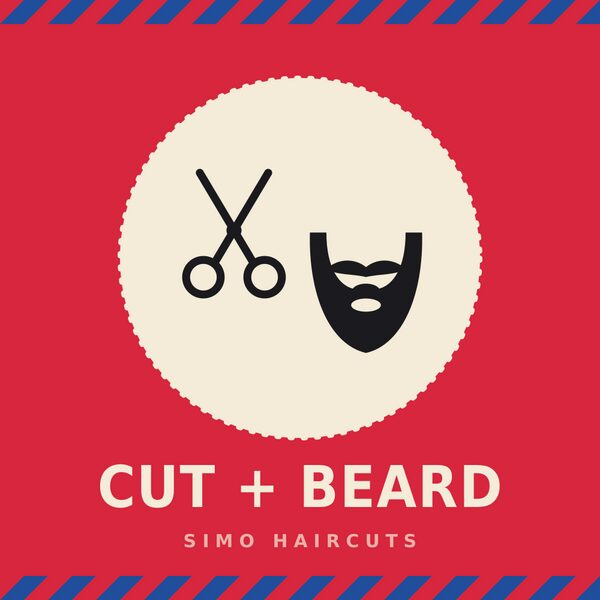
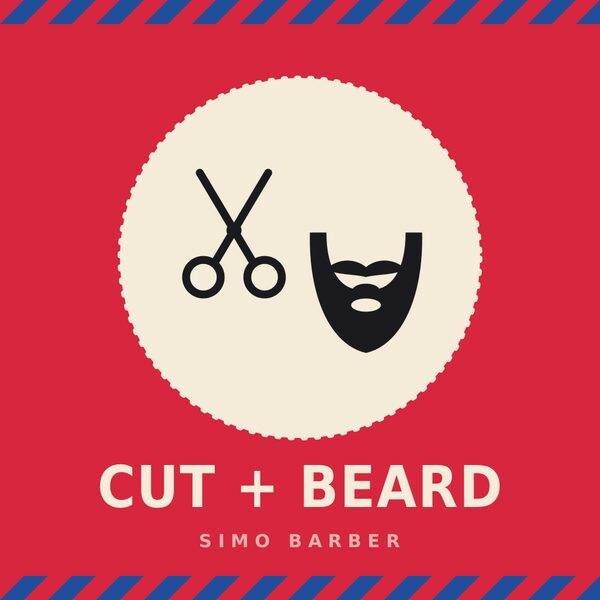
Rename to Simo Barber; lead services with haircuts
Claude-Session: https://claude.ai/code/session_01NQSfjRKTrDdcBnhyAtxXei

Changed region(s): [[0.3, 0.87, 0.69, 0.93]]

diff --git a/index.html b/index.html
@@ -3,11 +3,11 @@
 <head>
 <meta charset="utf-8">
 <meta name="viewport" content="width=device-width, initial-scale=1">
-<title>Simo Haircuts · North York Barber</title>
+<title>Simo Barber · North York</title>
 <meta name="description" content="Haircuts, fades, beards and hot towel shaves by Simo. Book your next cut online in 30 seconds.">
-<meta property="og:title" content="Simo Haircuts">
-<meta property="og:description" content="Fades, beards and hot towel shaves in North York. Book online in 30 seconds.">
-<meta property="og:image" content="https://simobarber.ca/img/og.jpg?v=3">
+<meta property="og:title" content="Simo Barber">
+<meta property="og:description" content="Haircuts, fades, beards and hot towel shaves in North York. Book online in 30 seconds.">
+<meta property="og:image" content="https://simobarber.ca/img/og.jpg?v=4">
 <meta property="og:image:width" content="1200">
 <meta property="og:image:height" content="630">
 <meta property="og:url" content="https://simobarber.ca/">
@@ -138,7 +138,7 @@
   <div class="wrap">
     <a class="logo" href="#top">
       <svg viewBox="0 0 100 100" aria-hidden="true"><polygon fill="#E0A93B" points="90,50 79.2,59.3 78.3,78.3 59.3,79.2 50,90 40.7,79.2 21.7,78.3 20.8,59.3 10,50 20.8,40.7 21.7,21.7 40.7,20.8 50,10 59.3,20.8 78.3,21.7 79.2,40.7"/><circle cx="50" cy="50" r="12" fill="#13233F"/></svg>
-      SIMO HAIRCUTS
+      SIMO BARBER
     </a>
     <a class="btn small book" href="#">Book now</a>
   </div>
@@ -217,7 +217,7 @@
   </section>
 </main>
 
-<footer>© <span id="yr"></span> Simo Haircuts · 1027 Finch Ave W, North York · 416-652-3697</footer>
+<footer>© <span id="yr"></span> Simo Barber · 1027 Finch Ave W, North York · 416-652-3697</footer>
 <a class="btn stickybook book" href="#">Book now →</a>
 
 <script>

diff --git a/book/index.html b/book/index.html
@@ -4,9 +4,9 @@
 <meta charset="utf-8">
 <meta name="viewport" content="width=device-width, initial-scale=1">
 <title>Book with Simo</title>
-<meta property="og:title" content="Book with Simo · Simo Haircuts">
+<meta property="og:title" content="Book with Simo · Simo Barber">
 <meta property="og:description" content="Pick your next time in 30 seconds.">
-<meta property="og:image" content="https://simobarber.ca/img/og.jpg?v=3">
+<meta property="og:image" content="https://simobarber.ca/img/og.jpg?v=4">
 <meta property="og:image:width" content="1200"><meta property="og:image:height" content="630">
 <meta name="twitter:card" content="summary_large_image">
 <meta http-equiv="refresh" content="0; url=https://app.squareup.com/appointments/book/gzj3aniqhc8bsw/LAVXAR868NXZP/start">

diff --git a/README.md b/README.md
@@ -1,6 +1,6 @@
 # simobarber.ca
 
-One-page website for Simo Haircuts. Every "Book" button goes to his Square booking page.
+One-page website for Simo Barber. Every "Book" button goes to his Square booking page.
 
 ## Editing
 
